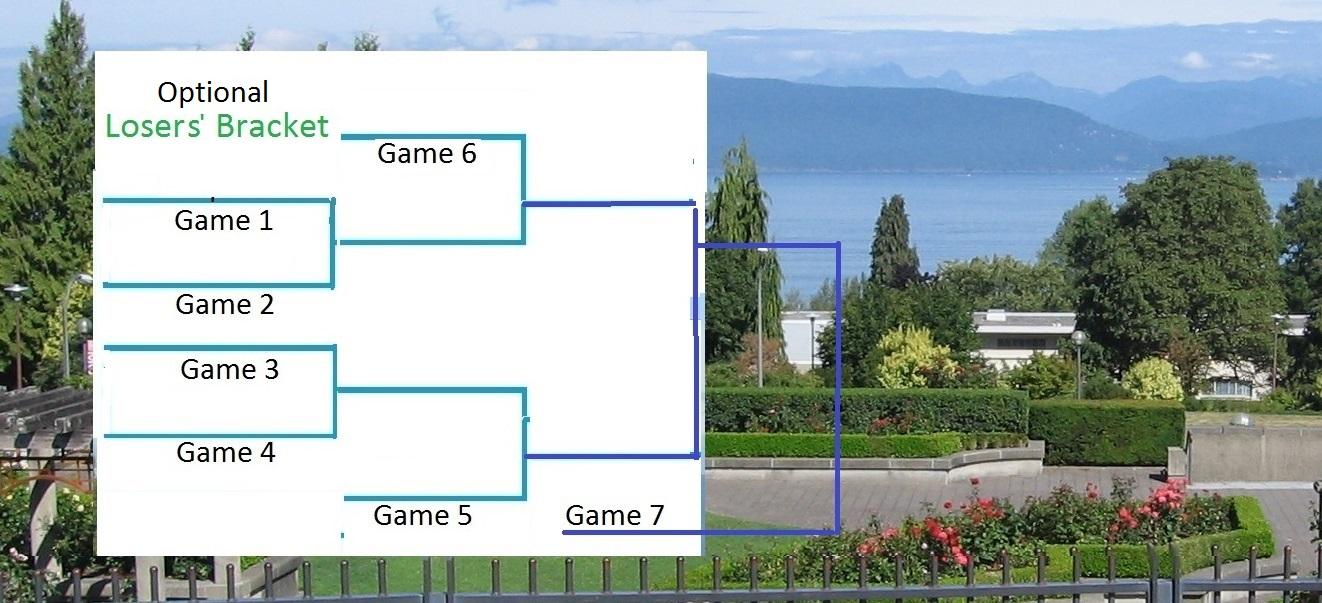
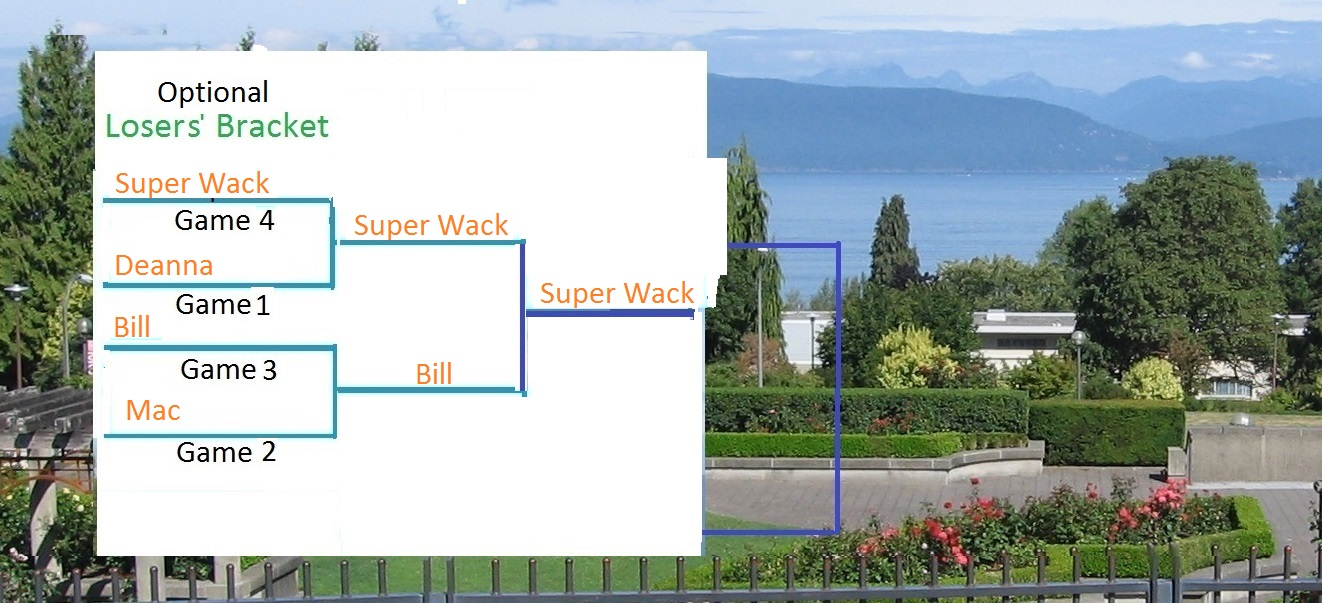
asun 1
asun 1

diff --git a/racquetball/RAQindex.html b/racquetball/RAQindex.html
@@ -11,7 +11,7 @@
 <!  --Author:          Bruce McLean>
 <!                                       >
 <!  --Date Created:    7/12/2015>
-<!  --Last Modified:   11/9/2018 >
+<!  --Last Modified:   11/11/2018 >
 <!---------------------------------------->
 
 
@@ -26,13 +26,12 @@
 <img src="..\bigeagle.gif">
 </td></tr>
 <tr><td><center>
-<H1>The 2018 racquetball tournament will end on Nov 12, 2018<BR>if we get no more registrants. <p>You can follow the 
-tournament 
+<H1>The 2018 racquetball single tournament was finished on Sunday, 11/11/2018. Congratulations to engineering major, Carlos Flores Carias for defeating Applied Mathematician, Dr. Emil Iacob in two games of 15. The doubles tournament will finish Tuesday night.
+<p>Click  
+
 <A href=".\tourny18\index.html"  target=_top>
 HERE 
-</A> .  First round single elimination is now closed. New registrants are welcome to join the Losers'
-bracket
-until Nov 12, 2018.<P></center>
+</A> for complete results. <P></center>
 </td></tr>
 <tr><td> <center><H1>USA Racquetball <a href="USAR Rulebook.pdf">Rules</a>
 </H1></center></td></tr>
